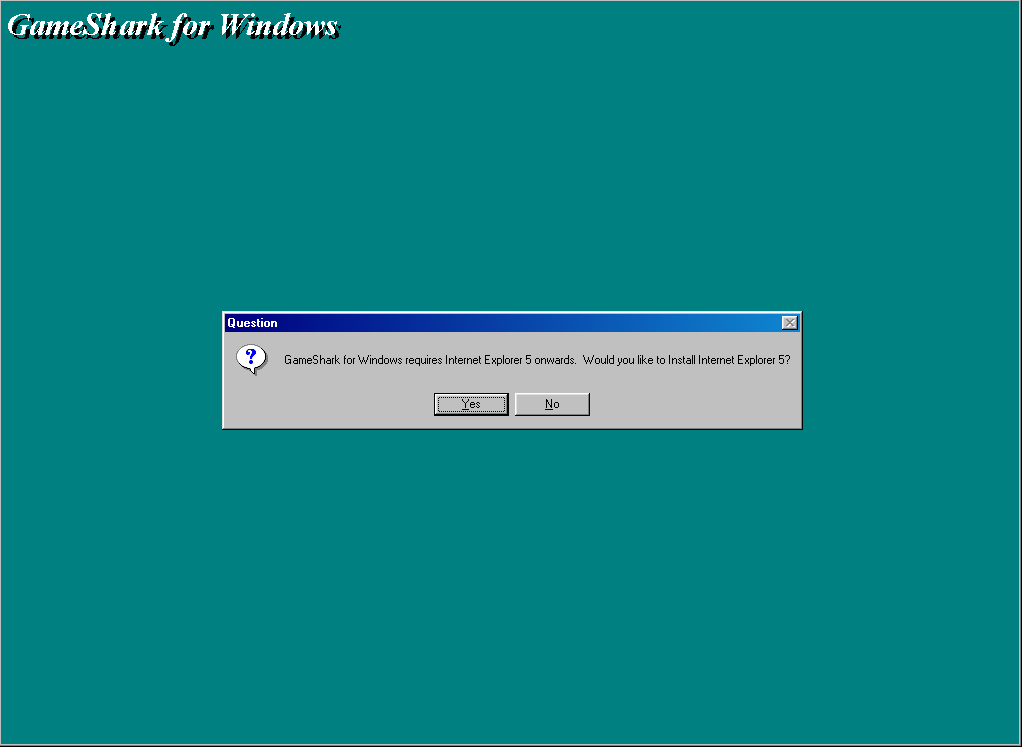
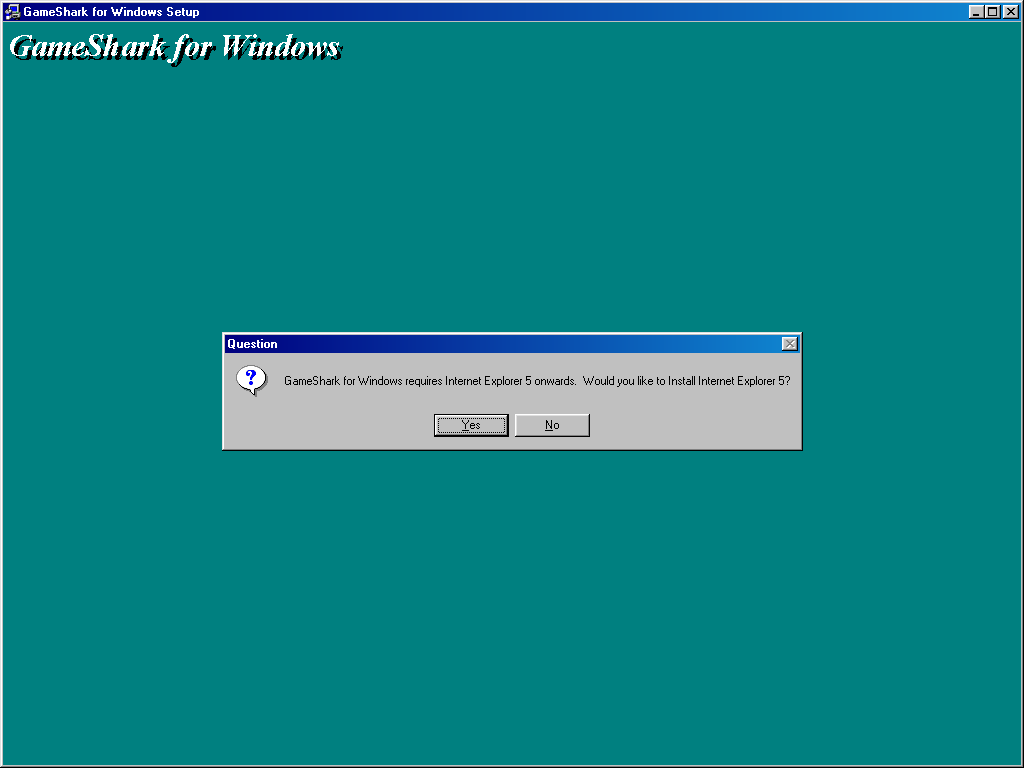
Fix cropping

Changed region(s): [[0.2123, 0.4003, 0.7886, 0.585], [0.0, 0.0, 1.0, 0.0924]]

diff --git a/README.md b/README.md
@@ -1185,6 +1185,8 @@ This version does ***NOT*** require a parallel port dongle.
 
 **Screenshots:**
 
+Setup:
+
 <img src="/pc/gs-win-v3.00/screenshots/gs-win-v3.00-01-setup-01-splash-screen.png"
      width="200" alt="">
 <img src="/pc/gs-win-v3.00/screenshots/gs-win-v3.00-01-setup-02-wizard-welcome.png"
@@ -1201,18 +1203,25 @@ This version does ***NOT*** require a parallel port dongle.
      width="200" alt="">
 <img src="/pc/gs-win-v3.00/screenshots/gs-win-v3.00-01-setup-08-finished.png"
      width="200" alt="">
+
+Main UI:
+
 <img src="/pc/gs-win-v3.00/screenshots/gs-win-v3.00-02-ui-01-splash-screen.png"
      width="200" alt="">
 <img src="/pc/gs-win-v3.00/screenshots/gs-win-v3.00-02-ui-02-splash-screen.png"
      width="200" alt="">
 <img src="/pc/gs-win-v3.00/screenshots/gs-win-v3.00-02-ui-03-activex-warning.png"
      width="200" alt="">
+
 <img src="/pc/gs-win-v3.00/screenshots/gs-win-v3.00-02-ui-04-version.png"
      width="200" alt="">
 <img src="/pc/gs-win-v3.00/screenshots/gs-win-v3.00-02-ui-05-games.png"
      width="200" alt="">
 <img src="/pc/gs-win-v3.00/screenshots/gs-win-v3.00-02-ui-06-add-cheat.png"
      width="200" alt="">
+
+Help viewer:
+
 <img src="/pc/gs-win-v3.00/screenshots/gs-win-v3.00-03-help-01-welcome.png"
      width="200" alt="">
 <img src="/pc/gs-win-v3.00/screenshots/gs-win-v3.00-03-help-02-the-games-page.png"
@@ -1221,6 +1230,9 @@ This version does ***NOT*** require a parallel port dongle.
      width="200" alt="">
 <img src="/pc/gs-win-v3.00/screenshots/gs-win-v3.00-03-help-04-the-code-selector.png"
      width="200" alt="">
+
+MP3Shark (GS-branded fork of FreeAmp):
+
 <img src="/pc/gs-win-v3.00/screenshots/gs-win-v3.00-04-mp3shark-00-ui.png"
      width="200" alt="">
 <img src="/pc/gs-win-v3.00/screenshots/gs-win-v3.00-04-mp3shark-01-preferences-general.png"
